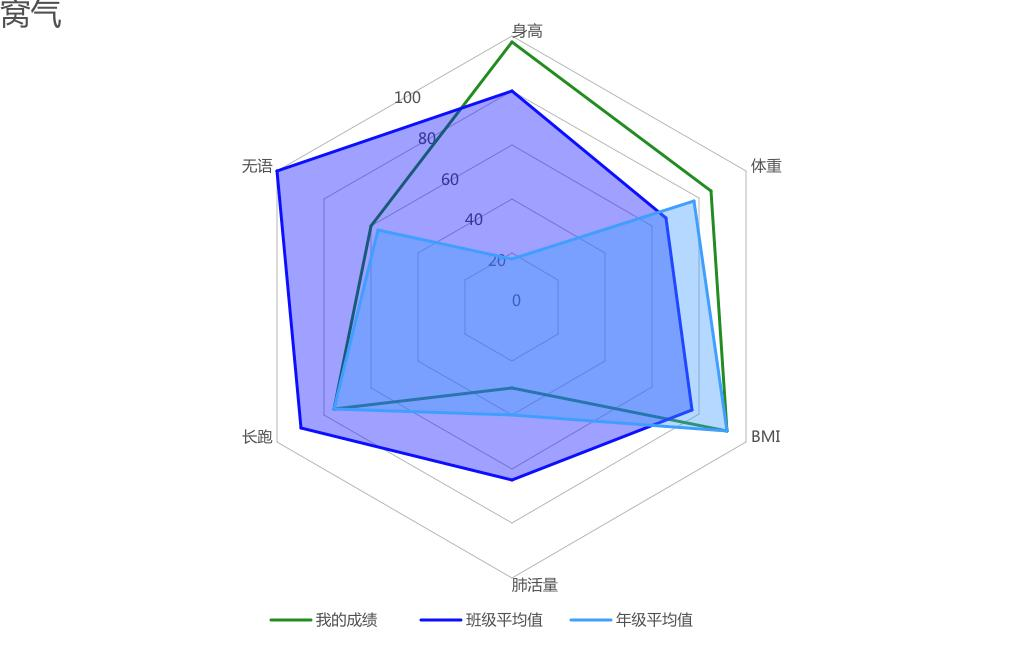
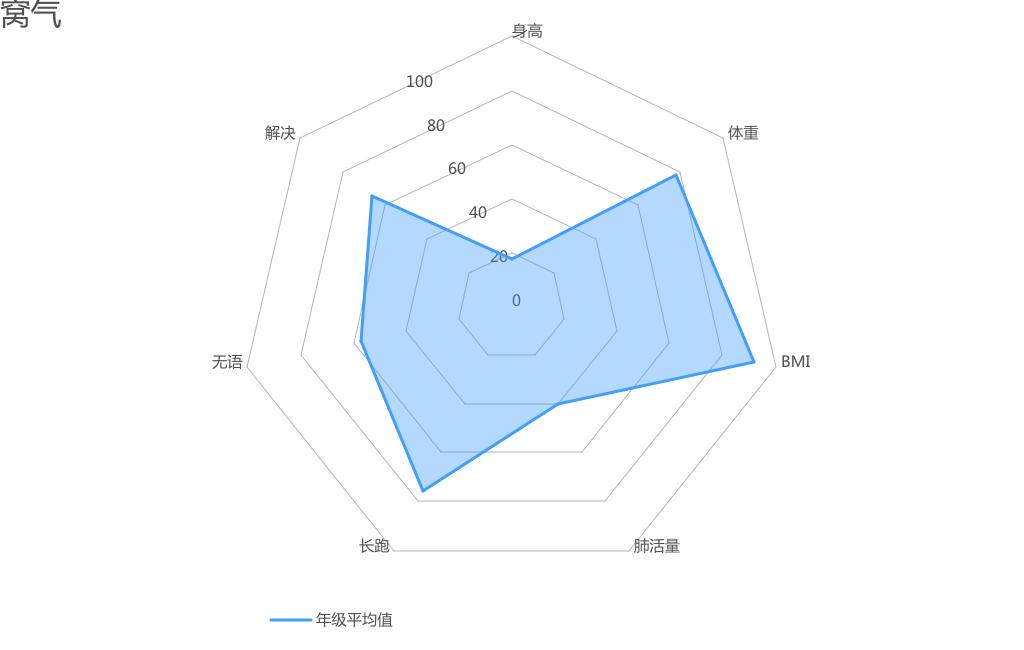
fix: bug

diff --git a/example/main.go b/example/main.go
@@ -66,11 +66,11 @@ func more() {
 	op.Height = 600
 	op.Title = "窝气"
 	op.DataValues = []int{100, 80, 60, 40, 20, 0}
-	op.DataKeys = []string{"身高", "体重", "BMI", "肺活量", "长跑", "无语"}
+	op.DataKeys = []string{"身高", "体重", "BMI", "肺活量", "长跑", "无语", "解决"}
 	op.DrawDatas = []chart.DrawMoreData{
-		{Name: "我的成绩", LinklineColor: color.RGBA{34, 139, 34, 255}, Values: []int{98, 85, 92, 30, 76, 60}},
-		{Name: "班级平均值", FaceColor: color.RGBA{12, 14, 255, 100}, LinklineColor: color.RGBA{12, 14, 255, 255}, Values: []int{80, 66, 77, 64, 90, 100}},
-		{Name: "年级平均值", FaceColor: color.RGBA{4 * 16, 9*16 + 14, 255, 100}, LinklineColor: color.RGBA{4 * 16, 9*16 + 14, 255, 255}, Values: []int{18, 78, 92, 40, 76, 57}},
+		// {Name: "我的成绩", LinklineColor: color.RGBA{34, 139, 34, 255}, Values: []int{98, 85, 92, 30, 76, 60}},
+		// {Name: "班级平均值", FaceColor: color.RGBA{12, 14, 255, 100}, LinklineColor: color.RGBA{12, 14, 255, 255}, Values: []int{80, 66, 77, 64, 90, 100}},
+		{Name: "年级平均值", FaceColor: color.RGBA{4 * 16, 9*16 + 14, 255, 100}, LinklineColor: color.RGBA{4 * 16, 9*16 + 14, 255, 255}, Values: []int{18, 78, 92, 40, 76, 57, 66}},
 	}
 	img := chart.DrawMoreRadar(op)
 

diff --git a/chartmore.go b/chartmore.go
@@ -123,7 +123,7 @@ func DrawMoreRadar(op MoreOptions) *image.RGBA {
 	}
 	//画边界线
 	dingdianpts := make([]image.Point, 0)
-	for j := 0; j < len(op.DataKeys); j++ {
+	for j := 0; j < len(op.DataValues); j++ {
 		//找到6个顶点位置 在直径为width的圆上
 		width := edge * op.DataValues[j] / op.DataValues[0]
 		pts := make([]image.Point, 0)
